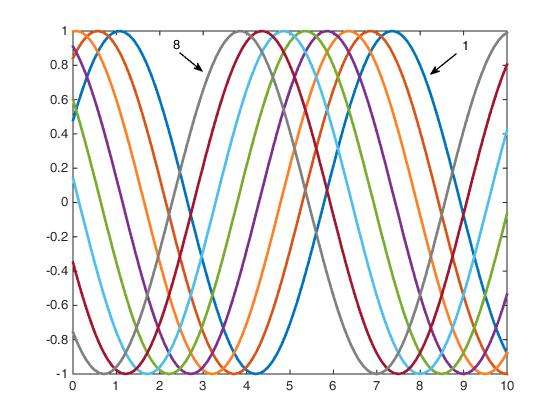
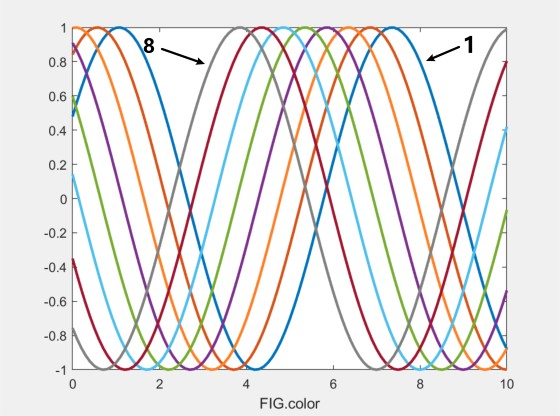
:horse_racing: new properties: color2
4种偏暖颜色

diff --git a/test/testcolor.m b/test/testcolor.m
@@ -1,11 +1,19 @@
 clear
 close all
 
+figure(1)
 t = 0:0.1:10;
 for i = 1:8
-    plot(t, sin(t+i/2), 'color', FIG.color(i,:))
+    plot(t, sin(t+i/2), 'color', FIG.color(i,:), 'LineWidth',2)
     hold on
 end
+xlabel('FIG.color')
 
-xlabel(FIG.text('Bt'))
-ylabel(FIG.text('Br'))
+figure(2)
+t = 0:0.1:10;
+for i = 1:4
+    plot(t, sin(t+i/2), 'color', FIG.color2(i,:), 'LineWidth',2)
+    hold on
+end
+xlabel('FIG.color2')
+%%

diff --git a/README.md b/README.md
@@ -5,15 +5,16 @@
 
 ## 类属性
 
-`color`: 自定义颜色表, 已预定义8种颜色, 低版本 Matlab 用此画图更美观
+`color`: 自定义颜色表, 8种, 低版本 Matlab 用此画图更美观
+`color2`: 另一自定义颜色表，4种
 
 ```matlab
-plot(x, y, 'color', FIG.color(n,:))
+plot(x, y, 'color', FIG.color(n,:))   % n=1~8
+plot(x, y, 'color', FIG.color2(n,:))  % n=1~4
 ```
 
-其中 n=1:8
-
 ![colormap](./img/colormap.jpg)
+![colormap2](./img/colormap2.jpg)
 
 ## 类方法
 
